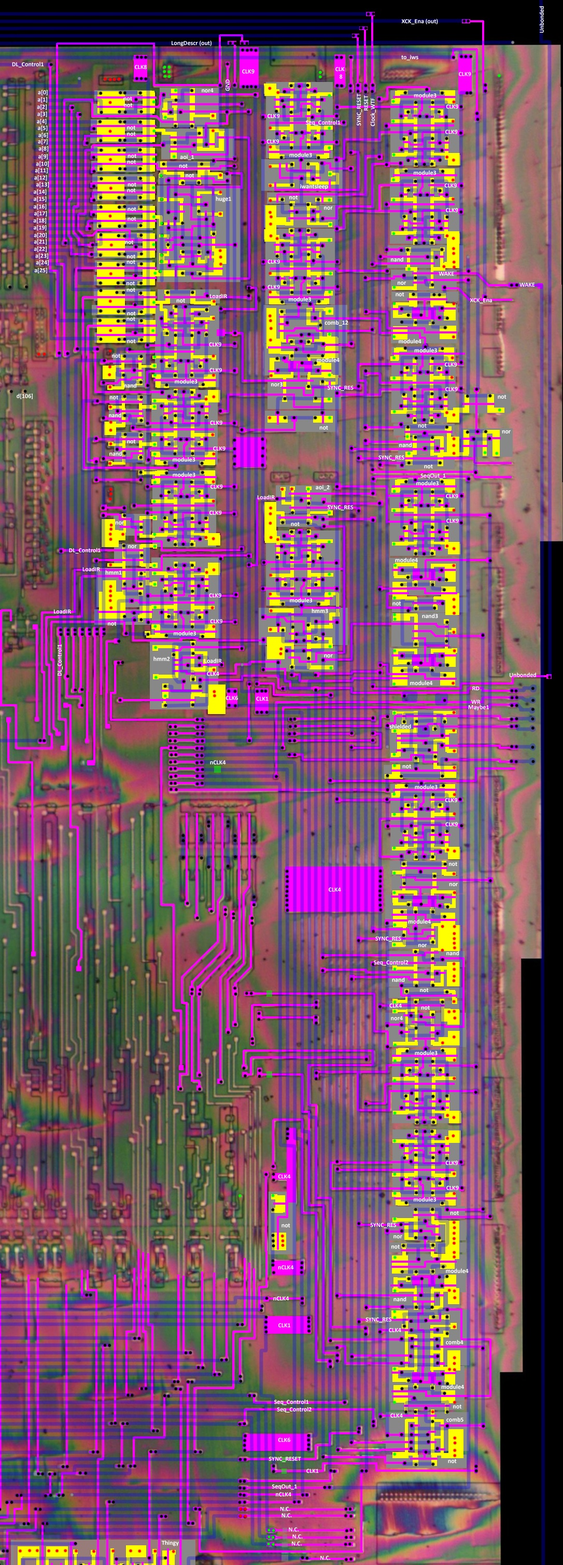
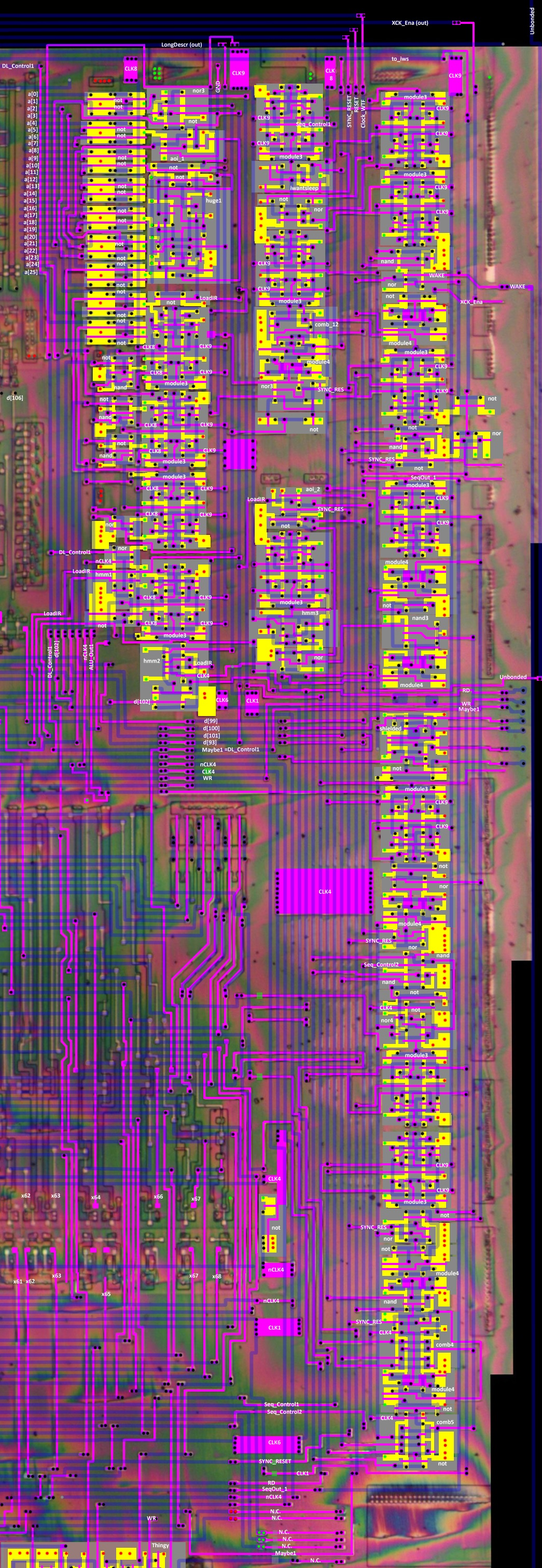
Pics

diff --git a/random_logic.md b/random_logic.md
@@ -7,3 +7,83 @@
 Usually this is the kind of logic that only the person who made it understands.
 
 The task of this logic is to generate the control signals for the bottom part.
+
+![rnd](/imgstore/rnd.jpg)
+
+## Output Drivers
+
+![rnd_drv](/imgstore/modules/rnd_drv.jpg)
+
+## Output List
+
+|Output|Name|CLK|Description|
+|---|---|---|---|
+|x0| |CLK2| |
+|x1| |CLK2| |
+|x2| |CLK2 | |
+|x3| |CLK2 | |
+|x4| |CLK2 | |
+|x5| |CLK2 | |
+|x6| |CLK2 | |
+|x7| |CLK2 | |
+|x8| |CLK2 | |
+|x9| |CLK2 | |
+|x10| |CLK2 | |
+|x11| |CLK2 | |
+|x12| |CLK2 | |
+|x13| |CLK2 | |
+|x14| |CLK2 | |
+|x15|DataOut|CLK2 | |
+|x16| |CLK2 | |
+|x17| |CLK2 | |
+|x18| |CLK2 | |
+|x19| |CLK2 | |
+|x20| |CLK2 | |
+|x21| |CLK2 | |
+|x22| |CLK2 | |
+|x23| |CLK2 | |
+|x24| |CLK2 | |
+|x25| |CLK2 | |
+|x26| |CLK2 | |
+|x27| |CLK2 | |
+|x28| |:warning: CLK4| |
+|x29| |:warning: CLK4| |
+|x30| |CLK2 | |
+|x31| |CLK2 | |
+|x32| |CLK2 | |
+|x33| |CLK2 | |
+|x34| |CLK2 | |
+|x35| |CLK2 | |
+|x36| |CLK2 | |
+|x37| |CLK2 | |
+|x38| |CLK2 | |
+|x39| |CLK2 | |
+|x40| |CLK2 | |
+|x41| |CLK2 | |
+|x42| |CLK2 | |
+|x43| |CLK2 | |
+|x44| |CLK2 | |
+|x45| |CLK2 | |
+|x46| |CLK2 | |
+|x47| |CLK2 | |
+|x48| |:warning: CLK4| |
+|x49| |:warning: CLK4| |
+|x50| |:warning: CLK4| |
+|x51| |:warning: CLK4| |
+|x52| |CLK2 | |
+|x53| |CLK2 | |
+|x54| |CLK2 | |
+|x55| |CLK2 | |
+|x56| |:warning: CLK4| |
+|x57| |CLK2 | |
+|x58| |CLK2 | |
+|x59| |CLK2 | |
+|x60| |CLK2 | |
+|x61| |CLK2 | |
+|x62| |CLK2 | |
+|x63| |CLK2 | |
+|x64| |CLK2 | |
+|x65| |CLK2 | |
+|x66| |CLK2 | |
+|x67| |CLK2 | |
+|x68| |CLK2 | |

diff --git a/decoder2.md b/decoder2.md
@@ -5,3 +5,5 @@
 ![locator_decoder2](/imgstore/locator_decoder2.png)
 
 Refines the decoded operation code and reduces the total number of outputs for random logic. Implemented as densely packed logic.
+
+![decoder2](/imgstore/decoder2.jpg)

diff --git a/rails.md b/rails.md
@@ -6,6 +6,8 @@
 
 ![locator_rails1](/imgstore/locator_rails1.png)
 
+![rails1](/imgstore/rails1.jpg)
+
 ## Connections between top and bottom
 
 ![locator_rails2](/imgstore/locator_rails2.png)
